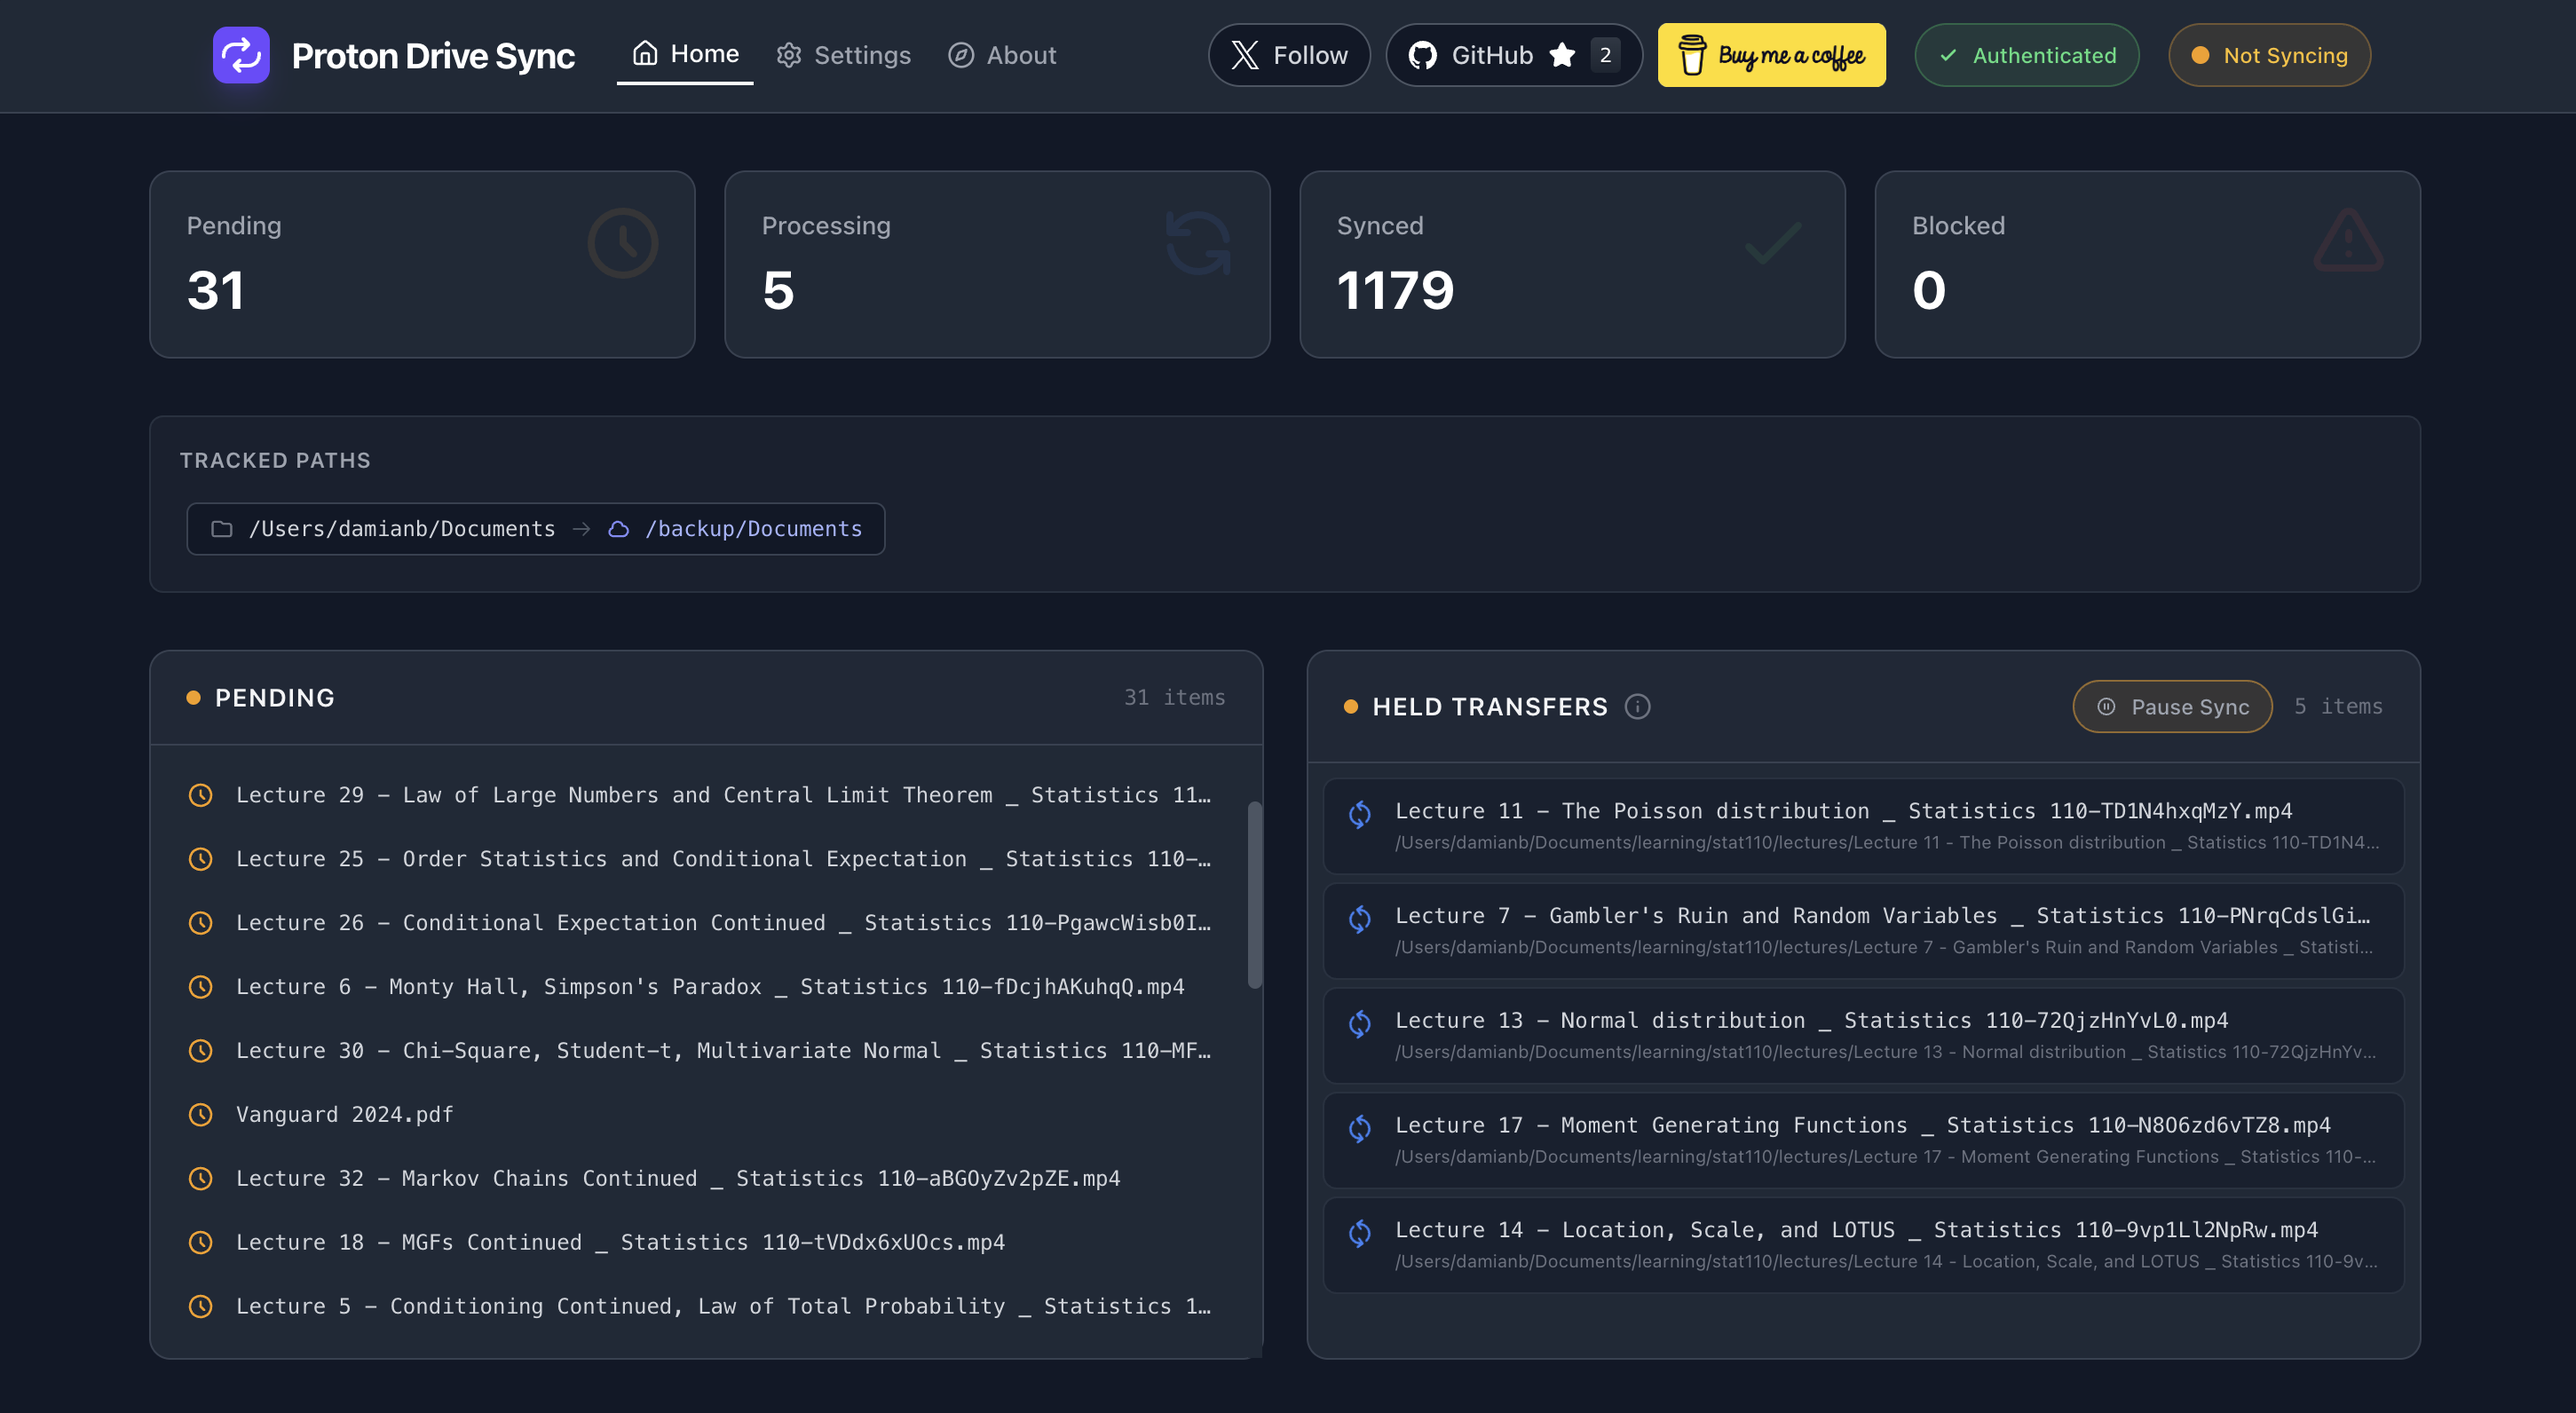
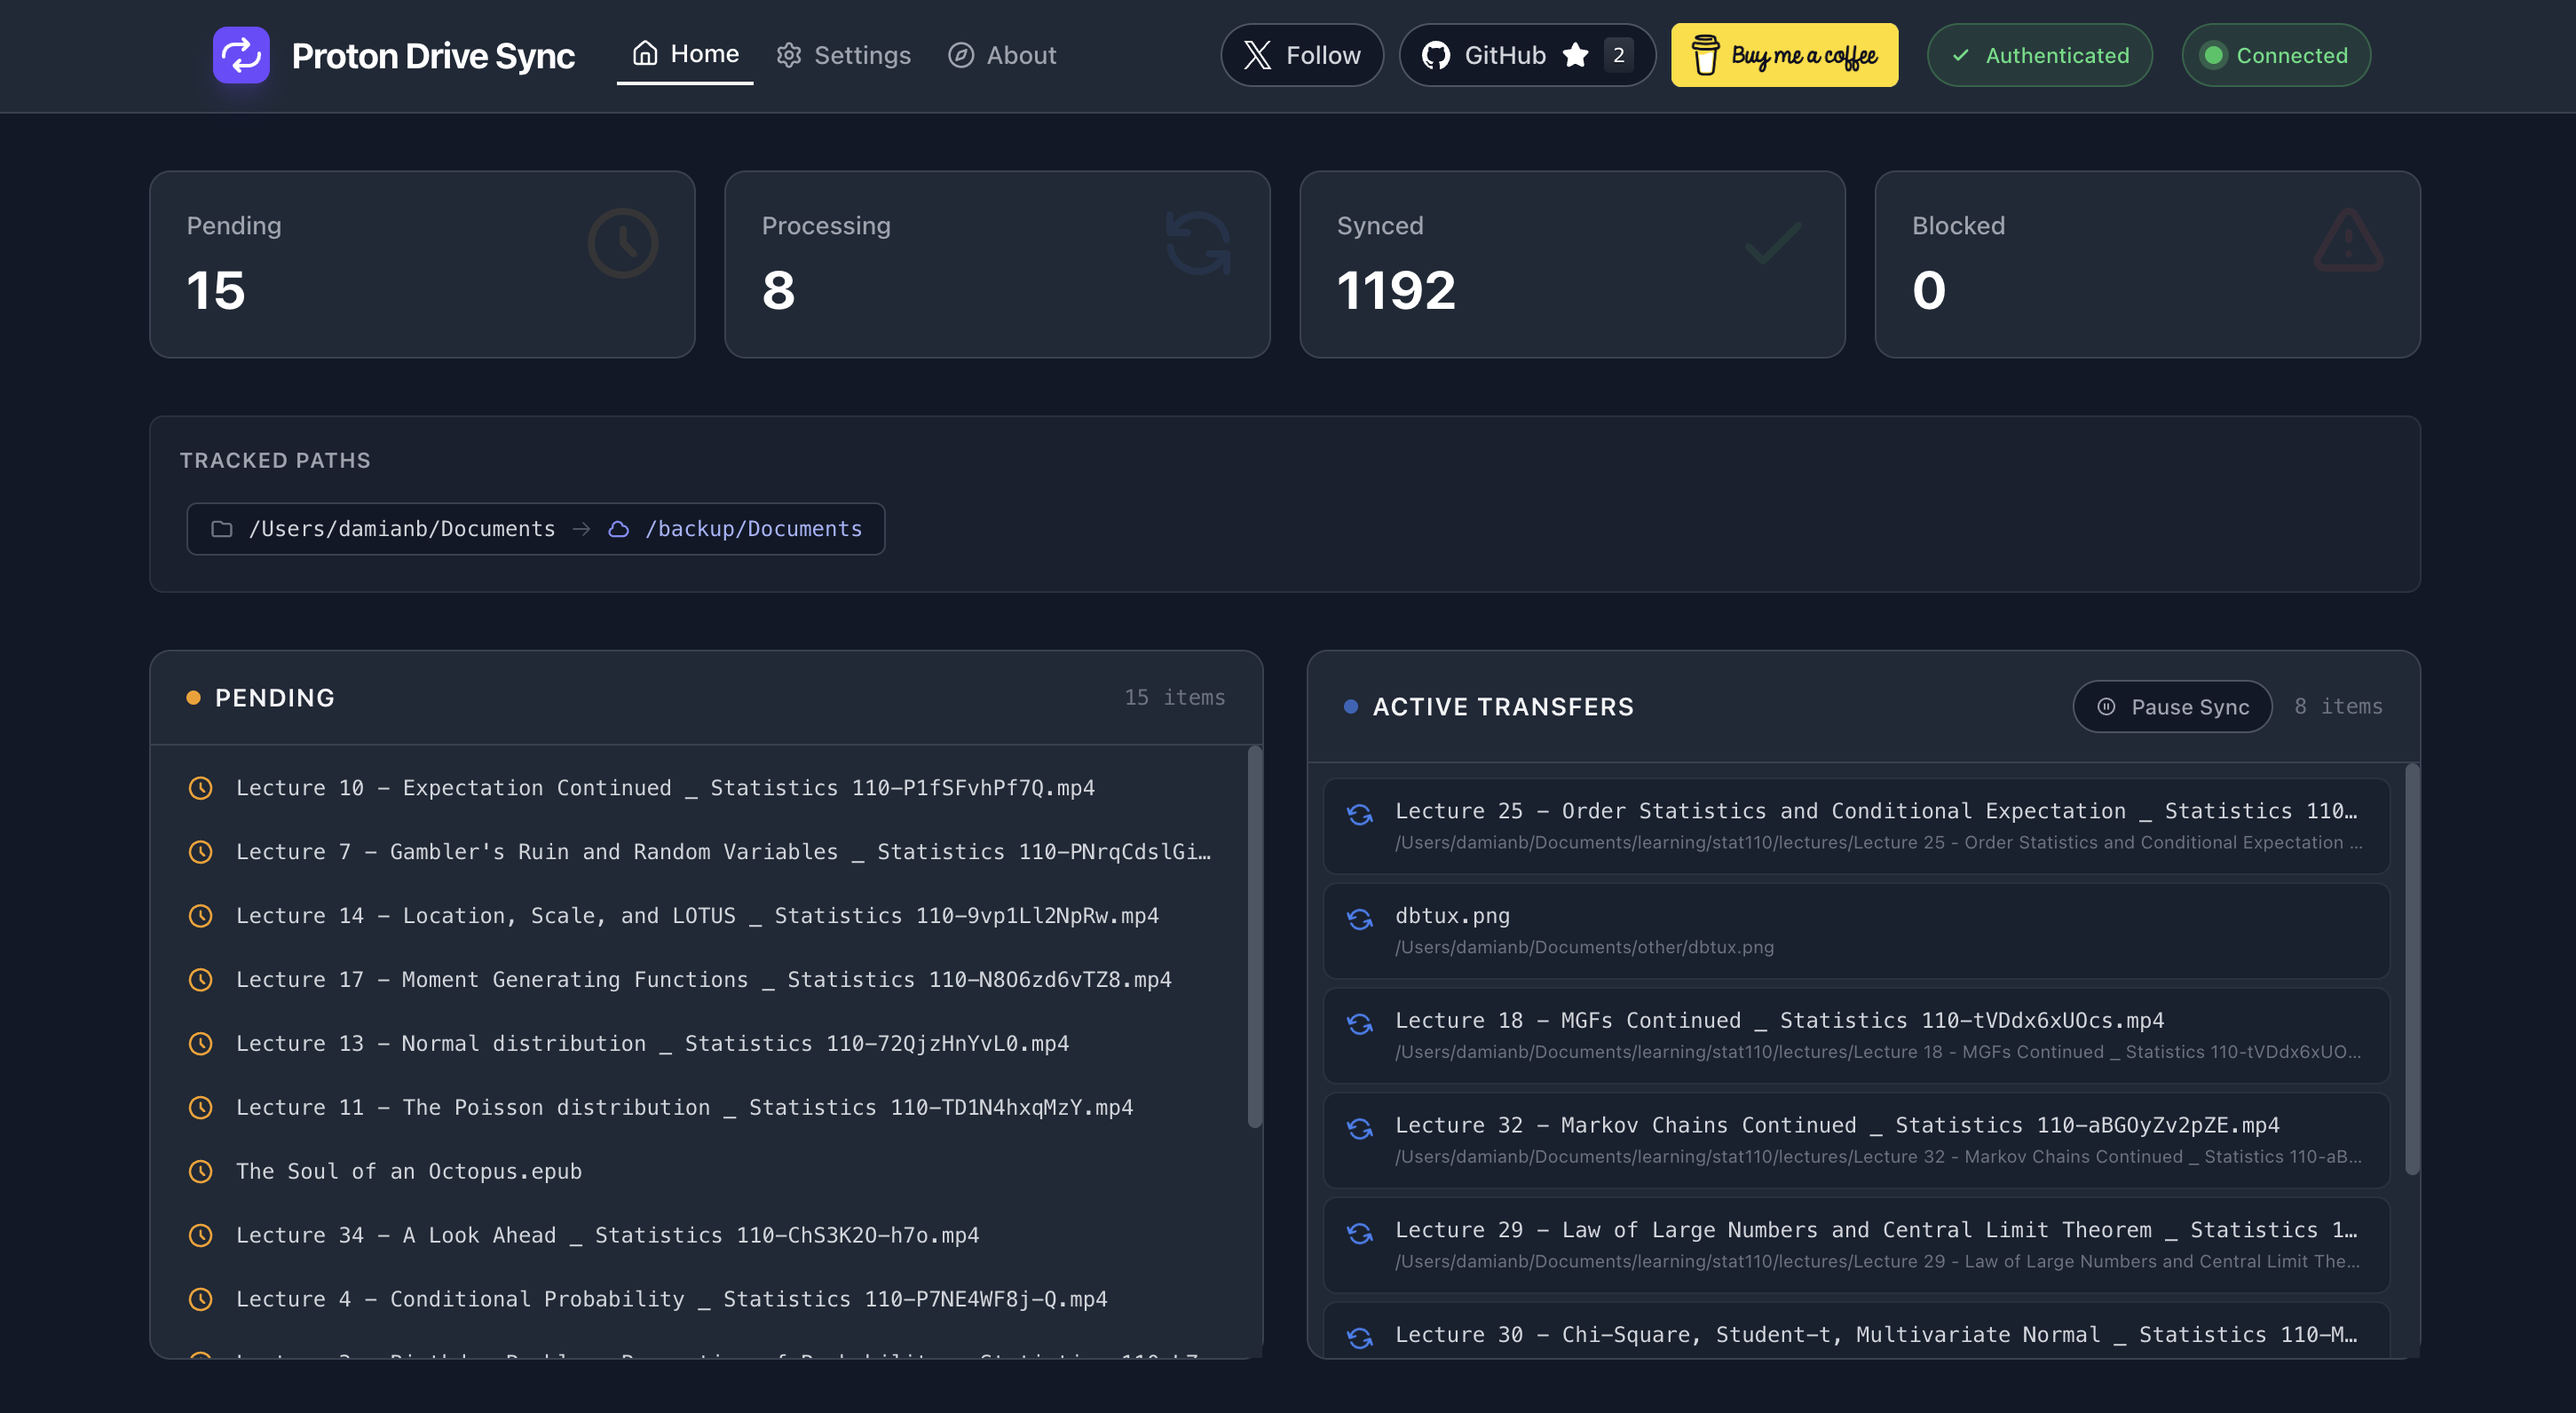
fix: Increase sync heartbeat timeout and notify on pause/resume

diff --git a/src/dashboard/server.ts b/src/dashboard/server.ts
@@ -173,8 +173,8 @@ let lastSentStatus: DashboardStatus | null = null;
 let lastSyncHeartbeat: number = 0;
 let lastPausedState = false;
 
-// How long to wait before considering sync loop dead (30 seconds)
-const SYNC_HEARTBEAT_TIMEOUT_MS = 30_000;
+// How long to wait before considering sync loop dead (90 seconds)
+const SYNC_HEARTBEAT_TIMEOUT_MS = 90_000;
 
 // Heartbeat interval (1.5 seconds) - checks for status changes
 const HEARTBEAT_INTERVAL_MS = 1500;

diff --git a/src/sync/engine.ts b/src/sync/engine.ts
@@ -193,12 +193,14 @@ function startJobProcessorLoop(client: ProtonDriveClient, dryRun: boolean): Proc
     paused = true;
     setFlag(FLAGS.PAUSED);
     logger.info('Sync paused');
+    sendSyncHeartbeat(paused);
   };
 
   const handleResume = (): void => {
     paused = false;
     clearFlag(FLAGS.PAUSED);
     logger.info('Sync resumed');
+    sendSyncHeartbeat(paused);
   };
 
   // Check if we were paused before restart (hot reload)
